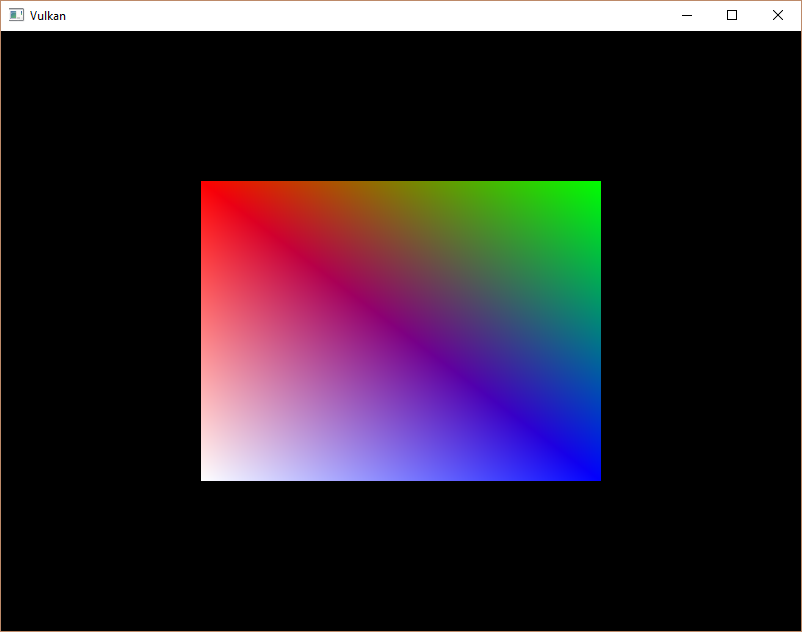
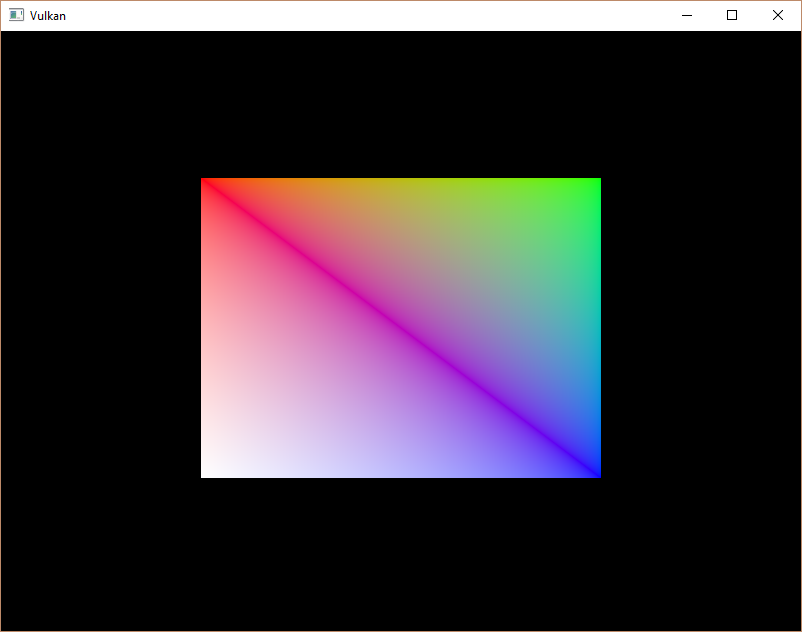
Update tutorial images to correctly represent interpolation in linear color space

Changed region(s): [[0.2494, 0.2706, 0.7481, 0.7816]]

diff --git a/en/03_Drawing_a_triangle/03_Drawing/02_Rendering_and_presentation.md b/en/03_Drawing_a_triangle/03_Drawing/02_Rendering_and_presentation.md
@@ -317,6 +317,8 @@ something resembling the following when you run your program:
 
 ![](/images/triangle.png)
 
+>This colored triangle may look a bit different from the one you're used to seeing in graphics tutorials. That's because this tutorial lets the shader interpolate in linear color space and converts to sRGB color space afterwards. See [this blog post](https://medium.com/@heypete/hello-triangle-meet-swift-and-wide-color-6f9e246616d9) for a discussion of the difference.
+
 Yay! Unfortunately, you'll see that when validation layers are enabled, the
 program crashes as soon as you close it. The messages printed to the terminal
 from `debugCallback` tell us why:
